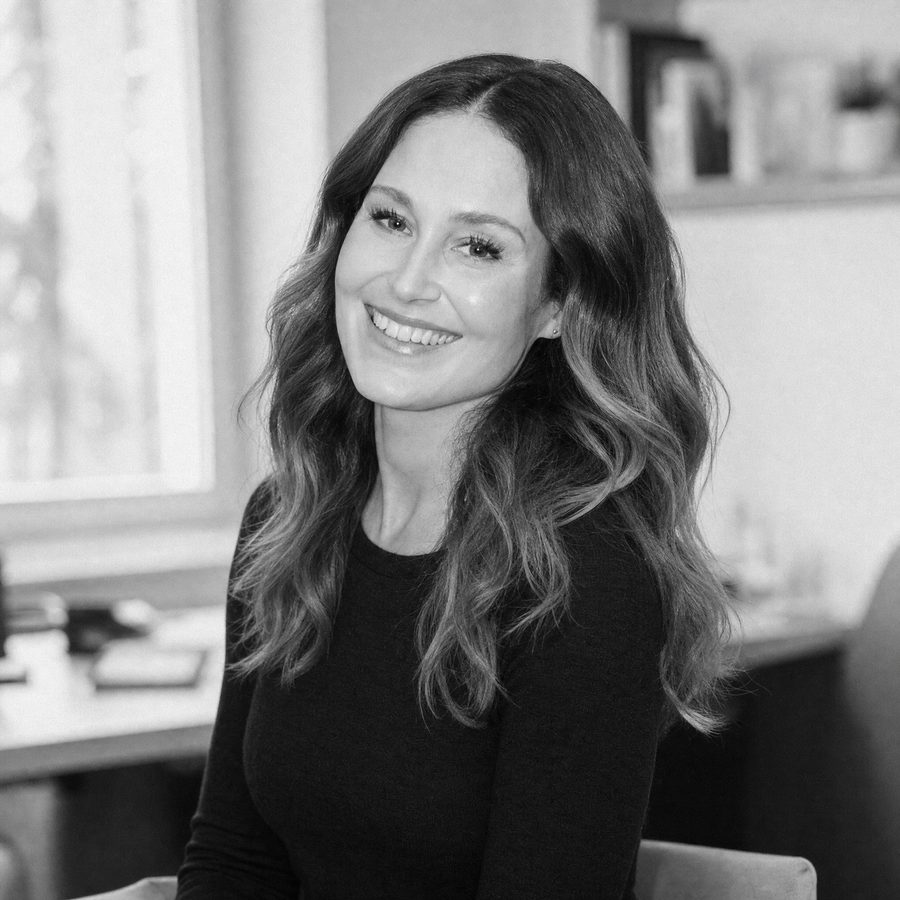
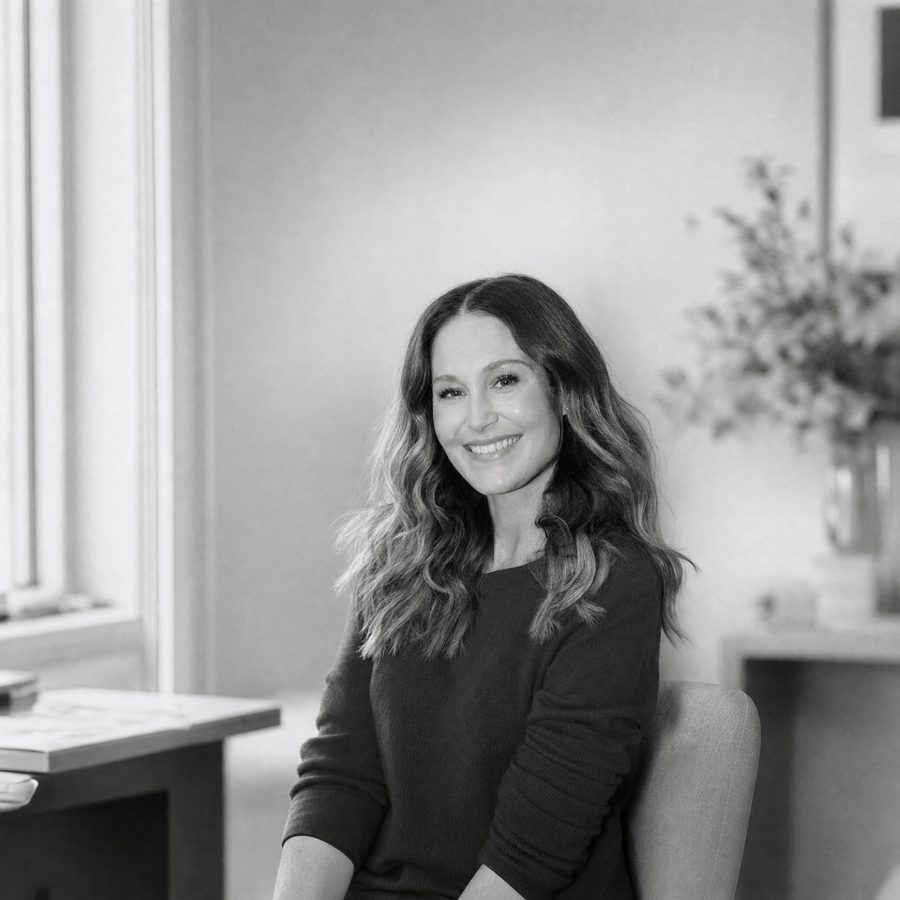
Christianna's remade headshot (2.2.4)
Claude-Session: https://claude.ai/code/session_01EQqvACd5KkN8YUa6iQ1N94

diff --git a/style.css b/style.css
@@ -3,7 +3,7 @@ Theme Name: Better Yet
 Theme URI: https://betteryet.com.au
 Author: Better Yet
 Description: One-page theme for Better Yet: AI, automation and systems for Australian businesses. Includes enquiry form (saved under Enquiries in the dashboard and emailed), booking link, time-back calculator, GA4 and Meta Pixel settings. Settings: Appearance > Customize > Better Yet settings.
-Version: 2.2.3
+Version: 2.2.4
 Requires at least: 6.0
 Requires PHP: 7.4
 License: GPLv2 or later

diff --git a/functions.php b/functions.php
@@ -7,7 +7,7 @@
 
 if ( ! defined( 'ABSPATH' ) ) exit;
 
-define( 'BY_VERSION', '2.2.3' );
+define( 'BY_VERSION', '2.2.4' );
 
 /* ---------- Settings ---------- */
 function by_defaults() {

diff --git a/README.md b/README.md
@@ -35,6 +35,7 @@ Nine black-and-white photos generated by Rob in Higgsfield (Soul 2.0) on 26 Oct 
 `/book/` (template `page-book.php`, engine in `inc/booking.php`, created automatically). Built-in time picker: two call types (free 20-min discovery call, audit session), days and times from the availability settings in the Customizer (timezone, days, hours, slot spacing, notice, horizon), double-booking prevented server-side, bookings saved under **Bookings** in the dashboard, emailed to the team and confirmed to the visitor with an .ics calendar file, and sent to the webhook if set. If a Calendly/Cal.com link is set and "Embed the booking link instead" is ticked, the page embeds that instead. `?call=audit` pre-selects the audit session. Nav and CTAs link to `by_book_url()`; an external Booking link still overrides the buttons via site.js.
 
 ## Versions
+- 2.2.4: Christianna's remade (wider) headshot.
 - 2.2.3: founder tiles show the whole square headshots (smaller heads in frame), pending a regenerated portrait of Christianna.
 - 2.2.2: the "marked up" photo is now the second founders shot (Rob standing, Christianna at the laptop) beside the copy; the LEAVO reference photo removed. No Higgsfield images are referenced by the theme (the hf-01..09 files left in wp-content/uploads/better-yet/ on the server can be deleted).
 - 2.2.1: founder photos (Rob and Christianna headshots, founders together) replace the mood-board placeholders in About; three unused reference images removed.
